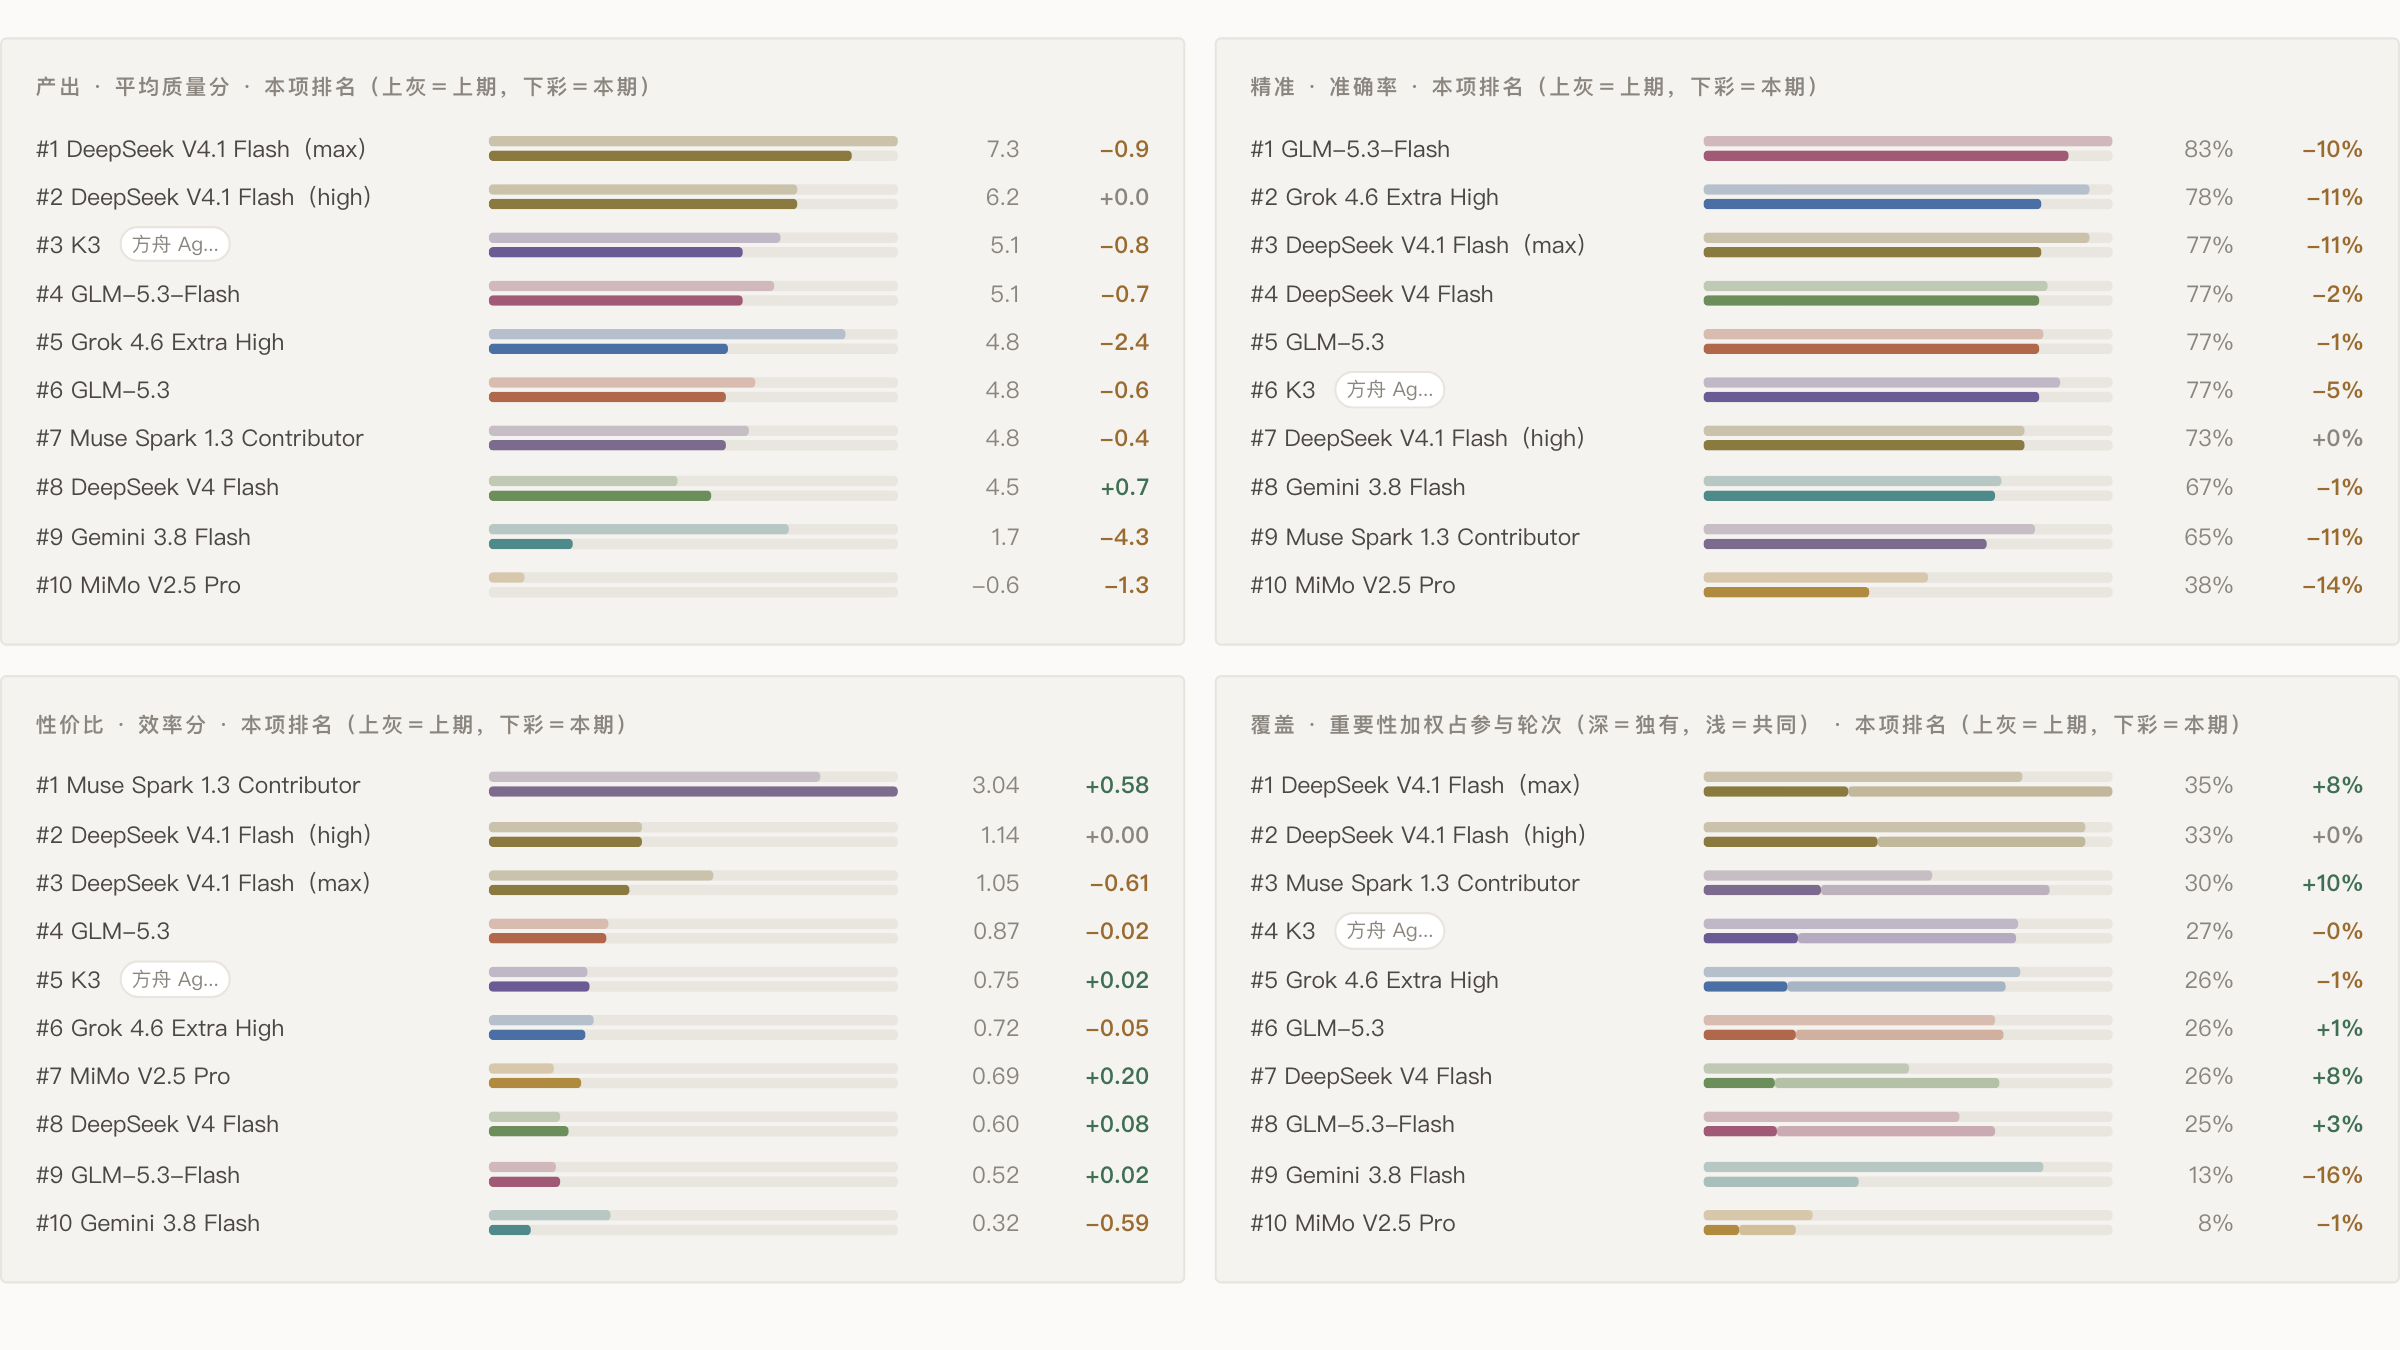
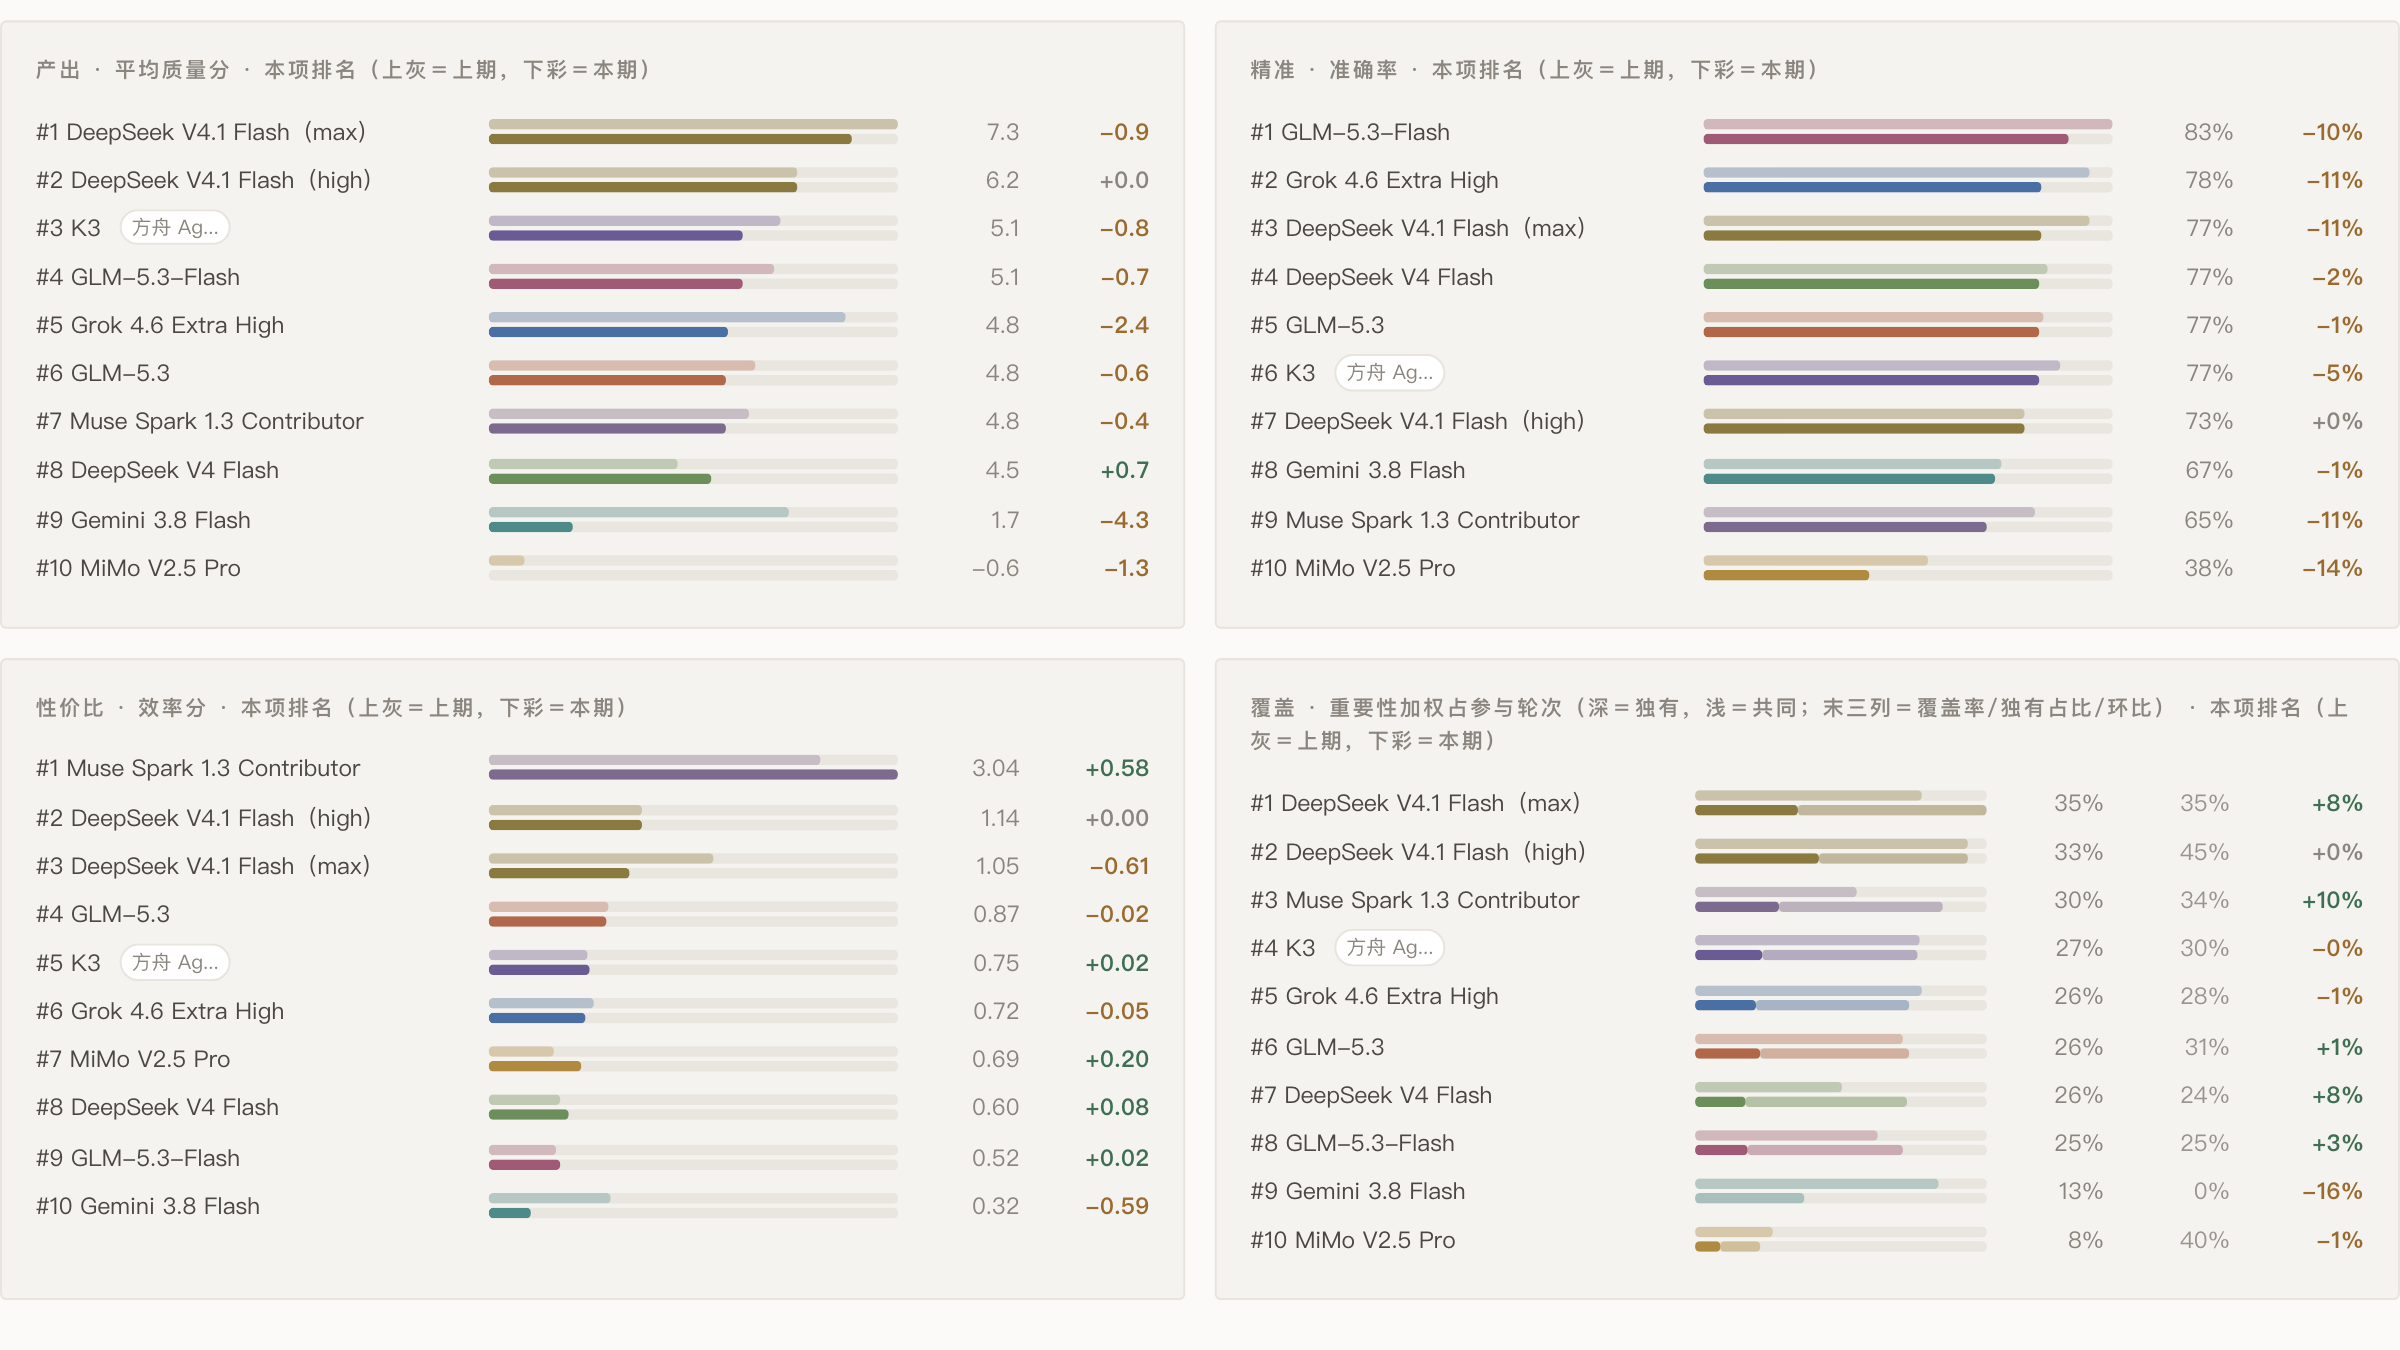
两期重生成：覆盖图加独有占比列

diff --git a/index.html b/index.html
@@ -3,7 +3,7 @@
 <meta name="viewport" content="width=device-width,initial-scale=1">
 <title>VastPlan · 多模型团队归档</title>
 <link rel="stylesheet" href="index.css?v=606ba777">
-<link rel="stylesheet" href="report.css?v=14767718">
+<link rel="stylesheet" href="report.css?v=875b741c">
 <link rel="stylesheet" href="vendor/uPlot.min.css?v=67765ea7"></head><body><main>
 <header class="page-head">
 <p class="kicker">VastPlan · Model Team Archive</p>
@@ -56,7 +56,7 @@
 <script id="trend-data" type="application/json">{"weeks":["2026-W37","2026-W38"],"labels":["2026-W37（09-07 → 09-14）","2026-W38（09-14 → 09-21）"],"kinds":{"事后审计":{"每类场次":[46,28],"成立密度（条/次）":[1.57,1.63],"每次花费（$）":[0.4604,0.4195],"假阳率":[0.2089,0.2768]},"设计分叉":{"每类场次":[25,19],"成立密度（条/次）":[2.2,2.07],"每次花费（$）":[0.0851,0.0659],"假阳率":[0.0468,0.1028]}},"tones":{"事后审计":"#6b5b95","设计分叉":"#4f8a8b","专责推理":"#b08a3e"}}</script>
 <script src="vendor/uPlot.iife.min.js?v=5b16e85a"></script>
 <script src="vendor/marked.min.js?v=9632727f"></script>
-<script src="report.js?v=2f1442bd"></script>
+<script src="report.js?v=a3a74560"></script>
 <script src="trend.js?v=2d5ac6d4"></script>
 <script src="index.js?v=10fbf8bd"></script>
 </body></html>

diff --git a/report.js b/report.js
@@ -62,11 +62,14 @@ function barRows(panel) {
         ? `<span class="track"><i style="width:${r.now_pct}%;background:${esc(r.tone)}"></i></span>`
         : `<span class="track split"><i style="width:${r.unique_pct}%;background:${esc(r.tone)}"></i>` +
           `<i style="width:${Math.max(0, r.now_pct - r.unique_pct)}%;background:${esc(r.tone)};opacity:.42"></i></span>`;
+      const ratio = r.unique_ratio_text === undefined
+        ? ""
+        : `<span class="val3">${esc(r.unique_ratio_text)}</span>`;
       return (
-        `<div class="bar"><span class="lab">${esc(r.label)}${badge(r.badge)}</span><span class="tracks">` +
+        `<div class="bar${ratio ? " three" : ""}"><span class="lab">${esc(r.label)}${badge(r.badge)}</span><span class="tracks">` +
         `<span class="track was"><i style="width:${r.was_pct}%;background:${esc(r.tone)}"></i></span>` +
         nowTrack + bad + `</span>` +
-        `<span class="val">${esc(r.value)}</span><span class="val2">${secondary}</span></div>`
+        `<span class="val">${esc(r.value)}</span>${ratio}<span class="val2">${secondary}</span></div>`
       );
     })
     .join("");

diff --git a/report.css b/report.css
@@ -69,6 +69,9 @@ tbody tr:hover td{background:#f7f5f2}
 .bar.pair{grid-template-columns:210px 1fr 96px}
 .bar.pair .vals{text-align:right;font-variant-numeric:tabular-nums;color:var(--muted)}
 .bar .val2{white-space:nowrap}
+/* 覆盖图：多一列「独有占比」（灰字），三列都右对齐等宽数字 */
+.bar.three{grid-template-columns:206px 1fr 50px 54px 58px}
+.bar .val3{text-align:right;font-variant-numeric:tabular-nums;color:var(--muted);opacity:.85;white-space:nowrap}
 .sev{display:flex;height:9px;border-radius:2px;overflow:hidden;background:#e9e5df}
 .sev i{display:block;height:9px}
 .sev-legend{display:flex;flex-wrap:wrap;gap:5px 14px;margin-top:9px;font-size:10.5px;color:var(--muted)}

diff --git a/weekly/2026-W38/report.md b/weekly/2026-W38/report.md
@@ -47,7 +47,7 @@
 
 - **产出 · 平均质量分**：1. DeepSeek V4.1 Flash（max）（7.3）、2. DeepSeek V4.1 Flash（high）（6.2）、3. K3 方舟 Agent Plan（5.1）、4. GLM-5.3-Flash（5.1）、5. Grok 4.6 Extra High（4.8）、6. GLM-5.3（4.8）、7. Muse Spark 1.3 Contributor（4.8）、8. DeepSeek V4 Flash（4.5）、9. Gemini 3.8 Flash（1.7）、10. MiMo V2.5 Pro（-0.6）
 - **精准 · 准确率**：1. GLM-5.3-Flash（83%）、2. Grok 4.6 Extra High（78%）、3. DeepSeek V4.1 Flash（max）（77%）、4. DeepSeek V4 Flash（77%）、5. GLM-5.3（77%）、6. K3 方舟 Agent Plan（77%）、7. DeepSeek V4.1 Flash（high）（73%）、8. Gemini 3.8 Flash（67%）、9. Muse Spark 1.3 Contributor（65%）、10. MiMo V2.5 Pro（38%）
-- **覆盖 · 重要性加权占参与轮次（深＝独有，浅＝共同）**：1. DeepSeek V4.1 Flash（max）（35%）、2. DeepSeek V4.1 Flash（high）（33%）、3. Muse Spark 1.3 Contributor（30%）、4. K3 方舟 Agent Plan（27%）、5. Grok 4.6 Extra High（26%）、6. GLM-5.3（26%）、7. DeepSeek V4 Flash（26%）、8. GLM-5.3-Flash（25%）、9. Gemini 3.8 Flash（13%）、10. MiMo V2.5 Pro（8%）
+- **覆盖 · 重要性加权占参与轮次（深＝独有，浅＝共同；末三列＝覆盖率/独有占比/环比）**：1. DeepSeek V4.1 Flash（max）（35%）、2. DeepSeek V4.1 Flash（high）（33%）、3. Muse Spark 1.3 Contributor（30%）、4. K3 方舟 Agent Plan（27%）、5. Grok 4.6 Extra High（26%）、6. GLM-5.3（26%）、7. DeepSeek V4 Flash（26%）、8. GLM-5.3-Flash（25%）、9. Gemini 3.8 Flash（13%）、10. MiMo V2.5 Pro（8%）
 - **独立 · 独有占比（重要性加权）**：1. DeepSeek V4.1 Flash（high）（45%）、2. MiMo V2.5 Pro（40%）、3. DeepSeek V4.1 Flash（max）（35%）、4. Muse Spark 1.3 Contributor（34%）、5. GLM-5.3（31%）、6. K3 方舟 Agent Plan（30%）、7. Grok 4.6 Extra High（28%）、8. GLM-5.3-Flash（25%）、9. DeepSeek V4 Flash（24%）、10. Gemini 3.8 Flash（0%）
 - **性价比 · 效率分**：1. Muse Spark 1.3 Contributor（3.04）、2. DeepSeek V4.1 Flash（high）（1.14）、3. DeepSeek V4.1 Flash（max）（1.05）、4. GLM-5.3（0.87）、5. K3 方舟 Agent Plan（0.75）、6. Grok 4.6 Extra High（0.72）、7. MiMo V2.5 Pro（0.69）、8. DeepSeek V4 Flash（0.60）、9. GLM-5.3-Flash（0.52）、10. Gemini 3.8 Flash（0.32）
 - **执行时间 · 平均每次分钟**：1. Muse Spark 1.3 Contributor（2.6）、2. MiMo V2.5 Pro（5.1）、3. DeepSeek V4.1 Flash（high）（6.6）、4. GLM-5.3（7.0）、5. Grok 4.6 Extra High（7.9）、6. Gemini 3.8 Flash（8.9）、7. K3 方舟 Agent Plan（9.4）、8. DeepSeek V4 Flash（9.9）、9. DeepSeek V4.1 Flash（max）（10.2）、10. GLM-5.3-Flash（11.2）
@@ -111,7 +111,7 @@
 
 - **产出 · 平均质量分**：1. Grok 4.6 Extra High（23.8）、2. K3 方舟 Agent Plan（23.7）、3. Gemini 3.8 Flash（18.0）、4. GLM-5.3（17.1）、5. Muse Spark 1.3 Contributor（16.4）、6. DeepSeek V4.1 Flash（max）（16.1）、7. GLM-5.3-Flash（15.5）、8. DeepSeek V4 Flash（14.9）、9. MiMo V2.5 Pro（10.7）、10. DeepSeek V4.1 Flash（high）（6.0）
 - **精准 · 准确率**：1. Gemini 3.8 Flash（100%）、2. Muse Spark 1.3 Contributor（97%）、3. DeepSeek V4.1 Flash（max）（94%）、4. DeepSeek V4 Flash（94%）、5. Grok 4.6 Extra High（92%）、6. GLM-5.3-Flash（91%）、7. GLM-5.3（89%）、8. K3 方舟 Agent Plan（89%）、9. MiMo V2.5 Pro（67%）、10. DeepSeek V4.1 Flash（high）（0%）
-- **覆盖 · 重要性加权占参与轮次（深＝独有，浅＝共同）**：1. Gemini 3.8 Flash（47%）、2. K3 方舟 Agent Plan（43%）、3. Grok 4.6 Extra High（41%）、4. GLM-5.3（27%）、5. DeepSeek V4.1 Flash（max）（25%）、6. GLM-5.3-Flash（25%）、7. DeepSeek V4 Flash（25%）、8. Muse Spark 1.3 Contributor（25%）、9. MiMo V2.5 Pro（19%）、10. DeepSeek V4.1 Flash（high）（0%）
+- **覆盖 · 重要性加权占参与轮次（深＝独有，浅＝共同；末三列＝覆盖率/独有占比/环比）**：1. Gemini 3.8 Flash（47%）、2. K3 方舟 Agent Plan（43%）、3. Grok 4.6 Extra High（41%）、4. GLM-5.3（27%）、5. DeepSeek V4.1 Flash（max）（25%）、6. GLM-5.3-Flash（25%）、7. DeepSeek V4 Flash（25%）、8. Muse Spark 1.3 Contributor（25%）、9. MiMo V2.5 Pro（19%）、10. DeepSeek V4.1 Flash（high）（0%）
 - **独立 · 独有占比（重要性加权）**：1. K3 方舟 Agent Plan（56%）、2. Grok 4.6 Extra High（48%）、3. Muse Spark 1.3 Contributor（31%）、4. GLM-5.3（28%）、5. MiMo V2.5 Pro（24%）、6. DeepSeek V4.1 Flash（max）（23%）、7. DeepSeek V4 Flash（22%）、8. GLM-5.3-Flash（21%）、9. Gemini 3.8 Flash（0%）、10. DeepSeek V4.1 Flash（high）（0%）
 - **性价比 · 效率分**：1. DeepSeek V4.1 Flash（max）（15.50）、2. Muse Spark 1.3 Contributor（11.56）、3. K3 方舟 Agent Plan（9.00）、4. Gemini 3.8 Flash（8.33）、5. MiMo V2.5 Pro（6.17）、6. DeepSeek V4 Flash（4.46）、7. Grok 4.6 Extra High（4.26）、8. GLM-5.3（2.93）、9. GLM-5.3-Flash（2.92）、10. DeepSeek V4.1 Flash（high）（0.00）
 - **执行时间 · 平均每次分钟**：1. DeepSeek V4.1 Flash（high）（0.5）、2. DeepSeek V4.1 Flash（max）（0.6）、3. Muse Spark 1.3 Contributor（0.7）、4. Gemini 3.8 Flash（1.0）、5. MiMo V2.5 Pro（1.2）、6. K3 方舟 Agent Plan（1.7）、7. GLM-5.3（3.2）、8. DeepSeek V4 Flash（3.2）、9. Grok 4.6 Extra High（3.4）、10. GLM-5.3-Flash（3.4）

diff --git a/weekly/2026-W37/report.md b/weekly/2026-W37/report.md
@@ -47,7 +47,7 @@
 
 - **产出 · 平均质量分**：1. DeepSeek V4.1 Flash（max）（8.2）、2. K3 Cursor（7.4）、3. Grok 4.6 Extra High（7.2）、4. Gemini 3.8 Flash（6.0）、5. K3 方舟 Agent Plan（5.9）、6. GLM-5.3-Flash（5.7）、7. GLM-5.3（5.3）、8. Muse Spark 1.3 Contributor（5.2）、9. DeepSeek V4 Flash（3.8）、10. MiMo V2.5 Pro（0.7）
 - **精准 · 准确率**：1. GLM-5.3-Flash（94%）、2. Grok 4.6 Extra High（89%）、3. DeepSeek V4.1 Flash（max）（88%）、4. K3 Cursor（84%）、5. K3 方舟 Agent Plan（82%）、6. DeepSeek V4 Flash（79%）、7. GLM-5.3（78%）、8. Muse Spark 1.3 Contributor（76%）、9. Gemini 3.8 Flash（68%）、10. MiMo V2.5 Pro（51%）
-- **覆盖 · 重要性加权占参与轮次（深＝独有，浅＝共同）**：1. K3 Cursor（29%）、2. Gemini 3.8 Flash（29%）、3. DeepSeek V4.1 Flash（max）（28%）、4. Grok 4.6 Extra High（27%）、5. K3 方舟 Agent Plan（27%）、6. GLM-5.3（25%）、7. GLM-5.3-Flash（22%）、8. Muse Spark 1.3 Contributor（20%）、9. DeepSeek V4 Flash（18%）、10. MiMo V2.5 Pro（9%）
+- **覆盖 · 重要性加权占参与轮次（深＝独有，浅＝共同；末三列＝覆盖率/独有占比/环比）**：1. K3 Cursor（29%）、2. Gemini 3.8 Flash（29%）、3. DeepSeek V4.1 Flash（max）（28%）、4. Grok 4.6 Extra High（27%）、5. K3 方舟 Agent Plan（27%）、6. GLM-5.3（25%）、7. GLM-5.3-Flash（22%）、8. Muse Spark 1.3 Contributor（20%）、9. DeepSeek V4 Flash（18%）、10. MiMo V2.5 Pro（9%）
 - **独立 · 独有占比（重要性加权）**：1. Muse Spark 1.3 Contributor（70%）、2. K3 Cursor（57%）、3. Grok 4.6 Extra High（51%）、4. DeepSeek V4.1 Flash（max）（46%）、5. Gemini 3.8 Flash（43%）、6. K3 方舟 Agent Plan（40%）、7. MiMo V2.5 Pro（39%）、8. GLM-5.3（36%）、9. GLM-5.3-Flash（36%）、10. DeepSeek V4 Flash（35%）
 - **性价比 · 效率分**：1. Muse Spark 1.3 Contributor（2.47）、2. DeepSeek V4.1 Flash（max）（1.66）、3. K3 Cursor（1.26）、4. Gemini 3.8 Flash（0.91）、5. GLM-5.3（0.88）、6. Grok 4.6 Extra High（0.77）、7. K3 方舟 Agent Plan（0.73）、8. DeepSeek V4 Flash（0.52）、9. GLM-5.3-Flash（0.50）、10. MiMo V2.5 Pro（0.49）
 - **执行时间 · 平均每次分钟**：1. Muse Spark 1.3 Contributor（1.9）、2. K3 Cursor（4.6）、3. MiMo V2.5 Pro（5.2）、4. GLM-5.3（6.5）、5. DeepSeek V4.1 Flash（max）（6.9）、6. DeepSeek V4 Flash（7.2）、7. Gemini 3.8 Flash（7.9）、8. Grok 4.6 Extra High（8.3）、9. K3 方舟 Agent Plan（8.6）、10. GLM-5.3-Flash（9.4）
@@ -112,7 +112,7 @@
 
 - **产出 · 平均质量分**：1. Fable 5.1（29.0）、2. K3 Cursor（25.7）、3. K3 方舟 Agent Plan（23.9）、4. Grok 4.6 Extra High（22.1）、5. Gemini 3.8 Flash（17.8）、6. GLM-5.3（16.6）、7. GLM-5.3-Flash（15.2）、8. DeepSeek V4 Flash（15.2）、9. DeepSeek V4.1 Flash（max）（12.2）、10. Muse Spark 1.3 Contributor（10.1）、11. MiMo V2.5 Pro（9.1）
 - **精准 · 准确率**：1. Fable 5.1（100%）、2. DeepSeek V4.1 Flash（max）（100%）、3. Muse Spark 1.3 Contributor（100%）、4. Grok 4.6 Extra High（98%）、5. K3 方舟 Agent Plan（98%）、6. GLM-5.3（98%）、7. DeepSeek V4 Flash（98%）、8. GLM-5.3-Flash（98%）、9. K3 Cursor（95%）、10. Gemini 3.8 Flash（94%）、11. MiMo V2.5 Pro（73%）
-- **覆盖 · 重要性加权占参与轮次（深＝独有，浅＝共同）**：1. Fable 5.1（68%）、2. K3 Cursor（49%）、3. K3 方舟 Agent Plan（47%）、4. Grok 4.6 Extra High（43%）、5. Gemini 3.8 Flash（34%）、6. GLM-5.3（32%）、7. DeepSeek V4 Flash（30%）、8. GLM-5.3-Flash（29%）、9. MiMo V2.5 Pro（20%）、10. DeepSeek V4.1 Flash（max）（12%）、11. Muse Spark 1.3 Contributor（8%）
+- **覆盖 · 重要性加权占参与轮次（深＝独有，浅＝共同；末三列＝覆盖率/独有占比/环比）**：1. Fable 5.1（68%）、2. K3 Cursor（49%）、3. K3 方舟 Agent Plan（47%）、4. Grok 4.6 Extra High（43%）、5. Gemini 3.8 Flash（34%）、6. GLM-5.3（32%）、7. DeepSeek V4 Flash（30%）、8. GLM-5.3-Flash（29%）、9. MiMo V2.5 Pro（20%）、10. DeepSeek V4.1 Flash（max）（12%）、11. Muse Spark 1.3 Contributor（8%）
 - **独立 · 独有占比（重要性加权）**：1. K3 Cursor（84%）、2. Fable 5.1（58%）、3. K3 方舟 Agent Plan（44%）、4. DeepSeek V4.1 Flash（max）（40%）、5. Grok 4.6 Extra High（39%）、6. Gemini 3.8 Flash（32%）、7. Muse Spark 1.3 Contributor（29%）、8. DeepSeek V4 Flash（18%）、9. GLM-5.3（14%）、10. GLM-5.3-Flash（12%）、11. MiMo V2.5 Pro（6%）
 - **性价比 · 效率分**：1. Fable 5.1（10.72）、2. Gemini 3.8 Flash（10.26）、3. K3 方舟 Agent Plan（10.13）、4. K3 Cursor（7.11）、5. DeepSeek V4.1 Flash（max）（6.16）、6. GLM-5.3（6.15）、7. MiMo V2.5 Pro（4.77）、8. GLM-5.3-Flash（3.76）、9. Grok 4.6 Extra High（3.64）、10. DeepSeek V4 Flash（3.33）、11. Muse Spark 1.3 Contributor（2.61）
 - **执行时间 · 平均每次分钟**：1. DeepSeek V4.1 Flash（max）（0.8）、2. Muse Spark 1.3 Contributor（0.8）、3. Gemini 3.8 Flash（1.0）、4. MiMo V2.5 Pro（1.1）、5. K3 方舟 Agent Plan（1.3）、6. Fable 5.1（1.6）、7. GLM-5.3（1.7）、8. K3 Cursor（1.9）、9. DeepSeek V4 Flash（2.2）、10. GLM-5.3-Flash（2.8）、11. Grok 4.6 Extra High（3.4）
